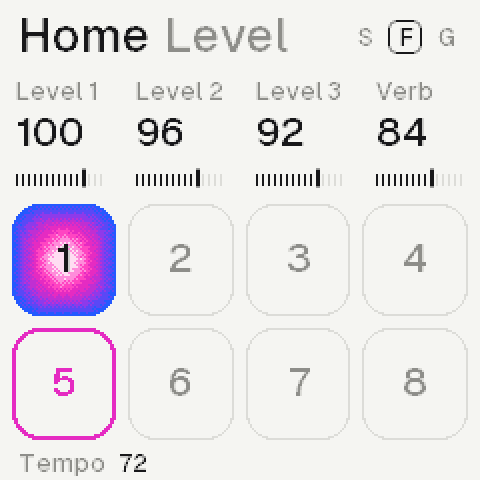
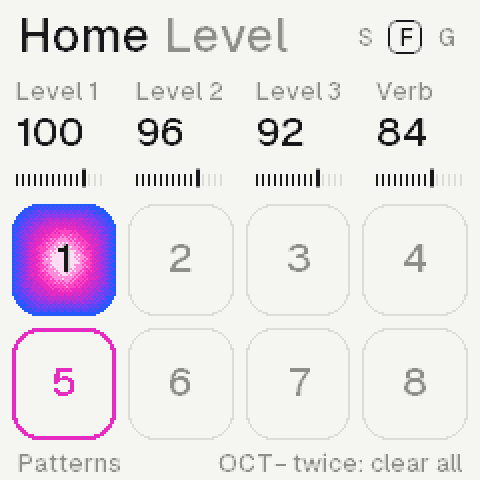
The site says what is built: inside a sound, songs, saving
The engines that are not built (pad, pluck, drone, layer, grit) give way to what a
sound goes through: the sample, the filter, colour, media, motion, space. Songs (14,
saved) instead of the patterns; the workflow's undo, not built, gives way to the
second press that clearing asks. The manual: Saving, and clearing the rolls. The
screens refreshed from the tour; the phone's band on the lines.

diff --git a/web/index.html b/web/index.html
@@ -5,9 +5,9 @@
   <meta charset="utf-8">
   <meta name="viewport" content="width=device-width, initial-scale=1">
   <title>Demake</title>
-  <meta name="description" content="Demake: an ambient lofi machine for the M-VAVE FM-1. Three synths, a chord machine, eight patterns a song.">
+  <meta name="description" content="Demake: an ambient lofi machine for the M-VAVE FM-1. Three synths on its own recordings, a chord machine, tape, codec and rooms.">
   <link rel="icon" href="img/icon.png">
-  <link rel="stylesheet" href="style.css?v=13">
+  <link rel="stylesheet" href="style.css?v=16">
   <script>
     /* the splash, once a visit and never for less motion; if anything fails, the page shows after 4 s regardless */
     try {
@@ -72,13 +72,13 @@
       <canvas class="heat" data-heat="img/art/pool.png" aria-hidden="true"></canvas>
       <p class="tt"><b>Synths</b><span>Each its own roll</span></p>
       <p class="big">3</p>
-      <p class="cap">Sample, pad, drone, pluck</p>
+      <p class="cap">On its own recordings</p>
     </div>
     <i class="link l1"></i>
     <div class="card c2 wide">
-      <p class="tt"><b>Patterns</b><span>A song, switched live</span></p>
-      <p class="big">8</p>
-      <p class="cap">Hold Home, press a key</p>
+      <p class="tt"><b>Songs</b><span>Saved in the machine</span></p>
+      <p class="big">14</p>
+      <p class="cap">Hold Save, pick one</p>
     </div>
     <div class="tiles" aria-hidden="true">
       <i class="on">1</i><i>2</i><i>3</i><i>4</i><i class="next">5</i><i>6</i><i>7</i><i>8</i>
@@ -99,15 +99,15 @@
     <div class="plate bits" style="--src: url(img/plate.png)" role="img" aria-label="Ambient, in line and in light"></div>
   </section>
 
-  <!-- 04 the engines: what each one is, each in its light -->
-  <section class="g strip" id="engines"><span class="no">04</span><span class="lb">Engines</span></section>
+  <!-- 04 inside: what a sound goes through, each in its light -->
+  <section class="g strip" id="engines"><span class="no">04</span><span class="lb">Inside</span></section>
   <section class="g art">
-    <figure class="eng e1"><div class="img"><canvas class="heat" data-heat="img/art/flow.png"></canvas></div><figcaption><b>Sample</b><span>Its own recorded sounds, looped and played from flash.</span></figcaption></figure>
-    <figure class="eng e2"><div class="img"><canvas class="heat" data-heat="img/art/pool.png"></canvas></div><figcaption><b>Pad</b><span>Three detuned wavetables that drift.</span></figcaption></figure>
-    <figure class="eng e3"><div class="img"><canvas class="heat" data-heat="img/art/drift.png"></canvas></div><figcaption><b>Pluck</b><span>A tuned string: kalimba, glass, bell.</span></figcaption></figure>
-    <figure class="eng e4"><div class="img"><canvas class="heat" data-heat="img/art/rise.png"></canvas></div><figcaption><b>Drone</b><span>Four partials that beat and wander.</span></figcaption></figure>
-    <figure class="eng e5"><div class="img"><canvas class="heat" data-heat="img/art/twin.png"></canvas></div><figcaption><b>Layer</b><span>A second sound under any engine.</span></figcaption></figure>
-    <figure class="eng e6"><div class="img"><canvas class="heat" data-heat="img/art/wave.png"></canvas></div><figcaption><b>Grit</b><span>The old console's rate and grain.</span></figcaption></figure>
+    <figure class="eng e1"><div class="img"><canvas class="heat" data-heat="img/art/flow.png"></canvas></div><figcaption><b>Sample</b><span>Its own recordings, looped and played from flash.</span></figcaption></figure>
+    <figure class="eng e2"><div class="img"><canvas class="heat" data-heat="img/art/pool.png"></canvas></div><figcaption><b>Filter</b><span>Eight shapes, a warm low-pass to a vowel.</span></figcaption></figure>
+    <figure class="eng e3"><div class="img"><canvas class="heat" data-heat="img/art/drift.png"></canvas></div><figcaption><b>Colour</b><span>Saturate, crush, codec and noise.</span></figcaption></figure>
+    <figure class="eng e4"><div class="img"><canvas class="heat" data-heat="img/art/rise.png"></canvas></div><figcaption><b>Media</b><span>Tape, cassette and VHS, wow and all.</span></figcaption></figure>
+    <figure class="eng e5"><div class="img"><canvas class="heat" data-heat="img/art/twin.png"></canvas></div><figcaption><b>Motion</b><span>Chorus, vibrato and drift.</span></figcaption></figure>
+    <figure class="eng e6"><div class="img"><canvas class="heat" data-heat="img/art/wave.png"></canvas></div><figcaption><b>Space</b><span>Six rooms and halls, an echo, grains.</span></figcaption></figure>
   </section>
 
   <!-- 05 the workflow: the rules, on one page -->
@@ -116,8 +116,8 @@
     <div class="rule r1"><i class="mk">1</i><b>Keys write</b><p>Stopped, a key writes at the cursor; playing, REC records it.</p></div>
     <div class="rule r2"><i class="mk">2</i><b>One job a knob</b><p>The same knob does the same thing on every page.</p></div>
     <div class="rule r3"><i class="mk">3</i><b>Tap, again, hold</b><p>Tap a page, tap again for its next row, hold for its layer.</p></div>
-    <div class="rule r4"><i class="mk">4</i><b>Hold, then act</b><p>Hold a key, a sequence or a pattern, then change it.</p></div>
-    <div class="rule r5"><i class="mk">5</i><b>Everything undoes</b><p>GLO with OCT− undoes, sixteen steps back.</p></div>
+    <div class="rule r4"><i class="mk">4</i><b>Hold, then act</b><p>Hold a note, a chord or a roll, then change it.</p></div>
+    <div class="rule r5"><i class="mk">5</i><b>Twice to lose</b><p>Clearing a roll or a song asks a second press.</p></div>
     <div class="rule r6"><i class="mk">6</i><b>Nothing hidden</b><p>Hold a button and the screen shows what it does.</p></div>
   </section>
 
@@ -144,7 +144,7 @@
       <button class="page on" data-src="img/screens/01_home.png" data-name="Home" data-b="6" data-say="The synths, the one sounding lit"><kbd>HOME</kbd><b>Home</b><span></span></button>
       <button class="page" data-src="img/screens/02_roll.png" data-name="Roll" data-b="9" data-say="A sequence, the cursor lit"><kbd>SEQ</kbd><b>Roll</b><span></span></button>
       <button class="page" data-src="img/screens/07_chord.png" data-name="Chord" data-b="8" data-say="The chord now, the progression"><kbd>ARP</kbd><b>Chord</b><span></span></button>
-      <button class="page" data-src="img/screens/16_home_held.png" data-name="Patterns" data-b="6" data-hold="2500" data-say="The playing one lit, the next a ring"><kbd>HOME</kbd><b>Patterns</b><span>held</span></button>
+      <button class="page" data-src="img/screens/16_home_held.png" data-name="Patterns" data-b="6" data-hold="2500" data-say="Eight a song, coming next"><kbd>HOME</kbd><b>Patterns</b><span>held</span></button>
       <button class="page" data-src="img/screens/03_sound.png" data-name="Sound" data-b="4" data-say="The sound&#39;s shape, its loop"><kbd>EDIT</kbd><b>Sound</b><span></span></button>
       <button class="page" data-src="img/screens/04_filter.png" data-name="Filter" data-b="1" data-say="The response, its cutoff a point"><kbd>SEL</kbd><b>Filter</b><span></span></button>
       <button class="page" data-src="img/screens/05_amp.png" data-name="Amp" data-b="2" data-say="The envelope, its points round"><kbd>ENV</kbd><b>Amp</b><span></span></button>
@@ -173,6 +173,6 @@
       Geist: SIL OFL 1.1. Kiloy: Marvadesign.</span>
   </footer>
 </main>
-<script src="app.js?v=11"></script>
+<script src="app.js?v=12"></script>
 </body>
 </html>

diff --git a/web/manual.html b/web/manual.html
@@ -10,7 +10,7 @@
   <title>Demake manual</title>
   <meta name="description" content="How to play Demake on the M-VAVE FM-1 and in the emulator: the panel, the pages, the rolls, chords and effects.">
   <link rel="icon" href="img/icon.png">
-  <link rel="stylesheet" href="style.css?v=15">
+  <link rel="stylesheet" href="style.css?v=16">
 </head>
 <body class="noscript-all">
 <main class="canvas">
@@ -41,6 +41,7 @@
       <a href="#rolls">The rolls</a>
       <a href="#chords">Chords</a>
       <a href="#writing">Writing progressions</a>
+      <a href="#saving">Saving</a>
       <p class="mgroup">Sound</p>
       <a href="#effects">Effects</a>
       <a href="#spaces">Reverbs and echo</a>
@@ -147,7 +148,7 @@
         <p class="msub">The keys play the synth SELECT picks; PRESETS steps through its sounds.</p>
         <div class="mt">
           <p><b>SELECT</b><span>Synth 1, 2 or 3; the head shows S F G, the current boxed</span></p>
-          <p><b>PRESETS</b><span>The next recording, on any page</span></p>
+          <p><b>PRESETS</b><span>The next recording, then your saved sounds, on any page</span></p>
           <p><b>OCT&minus; OCT+</b><span>Two octaves down or up</span></p>
           <p><b>On Chord</b><span>Each key plays a chord instead</span></p>
         </div>
@@ -166,6 +167,8 @@
           <p><b>K4</b><span>This synth's length, 1 to 64 steps</span></p>
           <p><b>PLAY</b><span>Plays all three; the keys play along</span></p>
           <p><b>PLAY + REC</b><span>Records the keys from their nearest step</span></p>
+          <p><b>SEQ + OCT&minus;</b><span>Twice: clears this synth's roll</span></p>
+          <p><b>HOME + OCT&minus;</b><span>Twice: clears all three</span></p>
         </div>
       </article>
 
@@ -193,6 +196,22 @@
           <li><i class="mk">4</i>Hold one: K1 moves it, K2 its quality, K3 its bars, K4 its bass.</li>
           <li><i class="mk">5</i>ARP held: K1 the cursor; OCT+ prints it into the synth's roll.</li>
         </ol>
+      </article>
+
+      <article id="saving" data-group="Playing">
+        <h1>Saving</h1>
+        <p class="msub">Fourteen songs and thirty-two sounds, kept in the machine. The newest song opens at start.</p>
+        <figure class="mfig"><img src="img/screens/18_discs.png" alt="Songs" width="240" height="240"><figcaption>Songs: the one open has a dot.</figcaption></figure>
+        <div class="mt">
+          <p><b>SAVE</b><span>The song into its slot, while stopped</span></p>
+          <p><b>SAVE held</b><span>Songs: K1 picks a slot</span></p>
+          <p><b>On Songs, PLAY</b><span>Loads it; an empty slot starts a new song</span></p>
+          <p><b>On Songs, SAVE</b><span>Saves there; twice over another song</span></p>
+          <p><b>On Songs, OCT&minus;</b><span>Twice: empties the slot</span></p>
+          <p><b>EDIT + SAVE</b><span>This synth's sound into your library, User 01 on</span></p>
+          <p><b>EDIT + OCT&minus;</b><span>Init: the first song's sound, the recording kept</span></p>
+        </div>
+        <p class="note">A song is everything that plays: the sounds, the effects, the key and chords, the tempo and the rolls. In the emulator, saves stay in this browser.</p>
       </article>
 
       <article id="effects" data-group="Sound">
@@ -250,7 +269,6 @@
         <h1>Not built yet</h1>
         <p class="msub">On the pages already, coming in the next versions.</p>
         <div class="mt">
-          <p><b>Saving</b><span>Songs, sounds and progressions kept on the FM&#8209;1</span></p>
           <p><b>Patterns</b><span>Eight a song, switched with HOME held</span></p>
           <p><b>LFO</b><span>Its sound (the page draws it already)</span></p>
           <p><b>Layer</b><span>A second recording under a sound</span></p>
@@ -287,7 +305,7 @@
     <span class="legal">GPL-3.0. M&#8209;VAVE and FM&#8209;1 are their owners' marks; Demake is not made or endorsed by M&#8209;VAVE.</span>
   </footer>
 </main>
-<script src="app.js?v=11"></script>
-<script src="manual.js?v=3"></script>
+<script src="app.js?v=12"></script>
+<script src="manual.js?v=4"></script>
 </body>
 </html>

diff --git a/web/install.html b/web/install.html
@@ -12,7 +12,7 @@
   <title>Demake installer</title>
   <meta name="description" content="Install Demake on the M-VAVE FM-1 over USB, from the browser, and go back to the official firmware.">
   <link rel="icon" href="img/icon.png">
-  <link rel="stylesheet" href="style.css?v=13">
+  <link rel="stylesheet" href="style.css?v=16">
 </head>
 <body>
 <main class="canvas">
@@ -122,7 +122,7 @@
       made or endorsed by M&#8209;VAVE.</span>
   </footer>
 </main>
-<script src="app.js?v=8"></script>
+<script src="app.js?v=9"></script>
 <script type="module" src="install.js?v=1"></script>
 </body>
 </html>

diff --git a/web/style.css b/web/style.css
@@ -458,7 +458,7 @@ code { font: inherit; color: var(--ink); }
   .legend li { grid-auto-rows: auto; }
   .index { grid-row: 21 / span 13; grid-template-columns: 1fr; }
   .bandrow { grid-template-rows: repeat(6, var(--m)); }
-  .band { grid-row: 2 / span 4; align-self: center; }
+  .band { grid-row: 2 / span 4; align-self: start; }   /* 3.5 rows tall: its corner on the lines */
   .links { grid-template-rows: repeat(6, var(--m)); }
   .links > * { grid-column: 1 / -1; }
   .fin { grid-template-rows: repeat(7, var(--m)); }

diff --git a/host/dmk_host.c b/host/dmk_host.c
@@ -147,7 +147,7 @@ static void tour(const char *dir)
     tap(B_HOME); dmk_encoder(E_SELECT, 1); shot(dir, "home_synth2");
     dmk_button(B_HOME, 1); wait_ms(500); shot(dir, "home_held"); dmk_button(B_HOME, 0); wait_ms(60);
     tap(B_OCTU); wait_ms(300); shot(dir, "notice");
-    tap(B_SAVE); wait_ms(100); shot(dir, "saved");     /* SAVE: the song into its slot */
+    tap(B_SAVE); wait_ms(100); shot(dir, "saved"); wait_ms(1500);   /* SAVE: the song into its slot */
     dmk_button(B_SAVE, 1); wait_ms(1200); dmk_button(B_SAVE, 0); wait_ms(60); dmk_encoder(E_K1, 1); wait_ms(60); shot(dir, "discs");
     tap(B_GLO); tap(B_GLO);                             /* to SETUP */
     for (int t = 1; t < DMK_THEMES; t++) {
